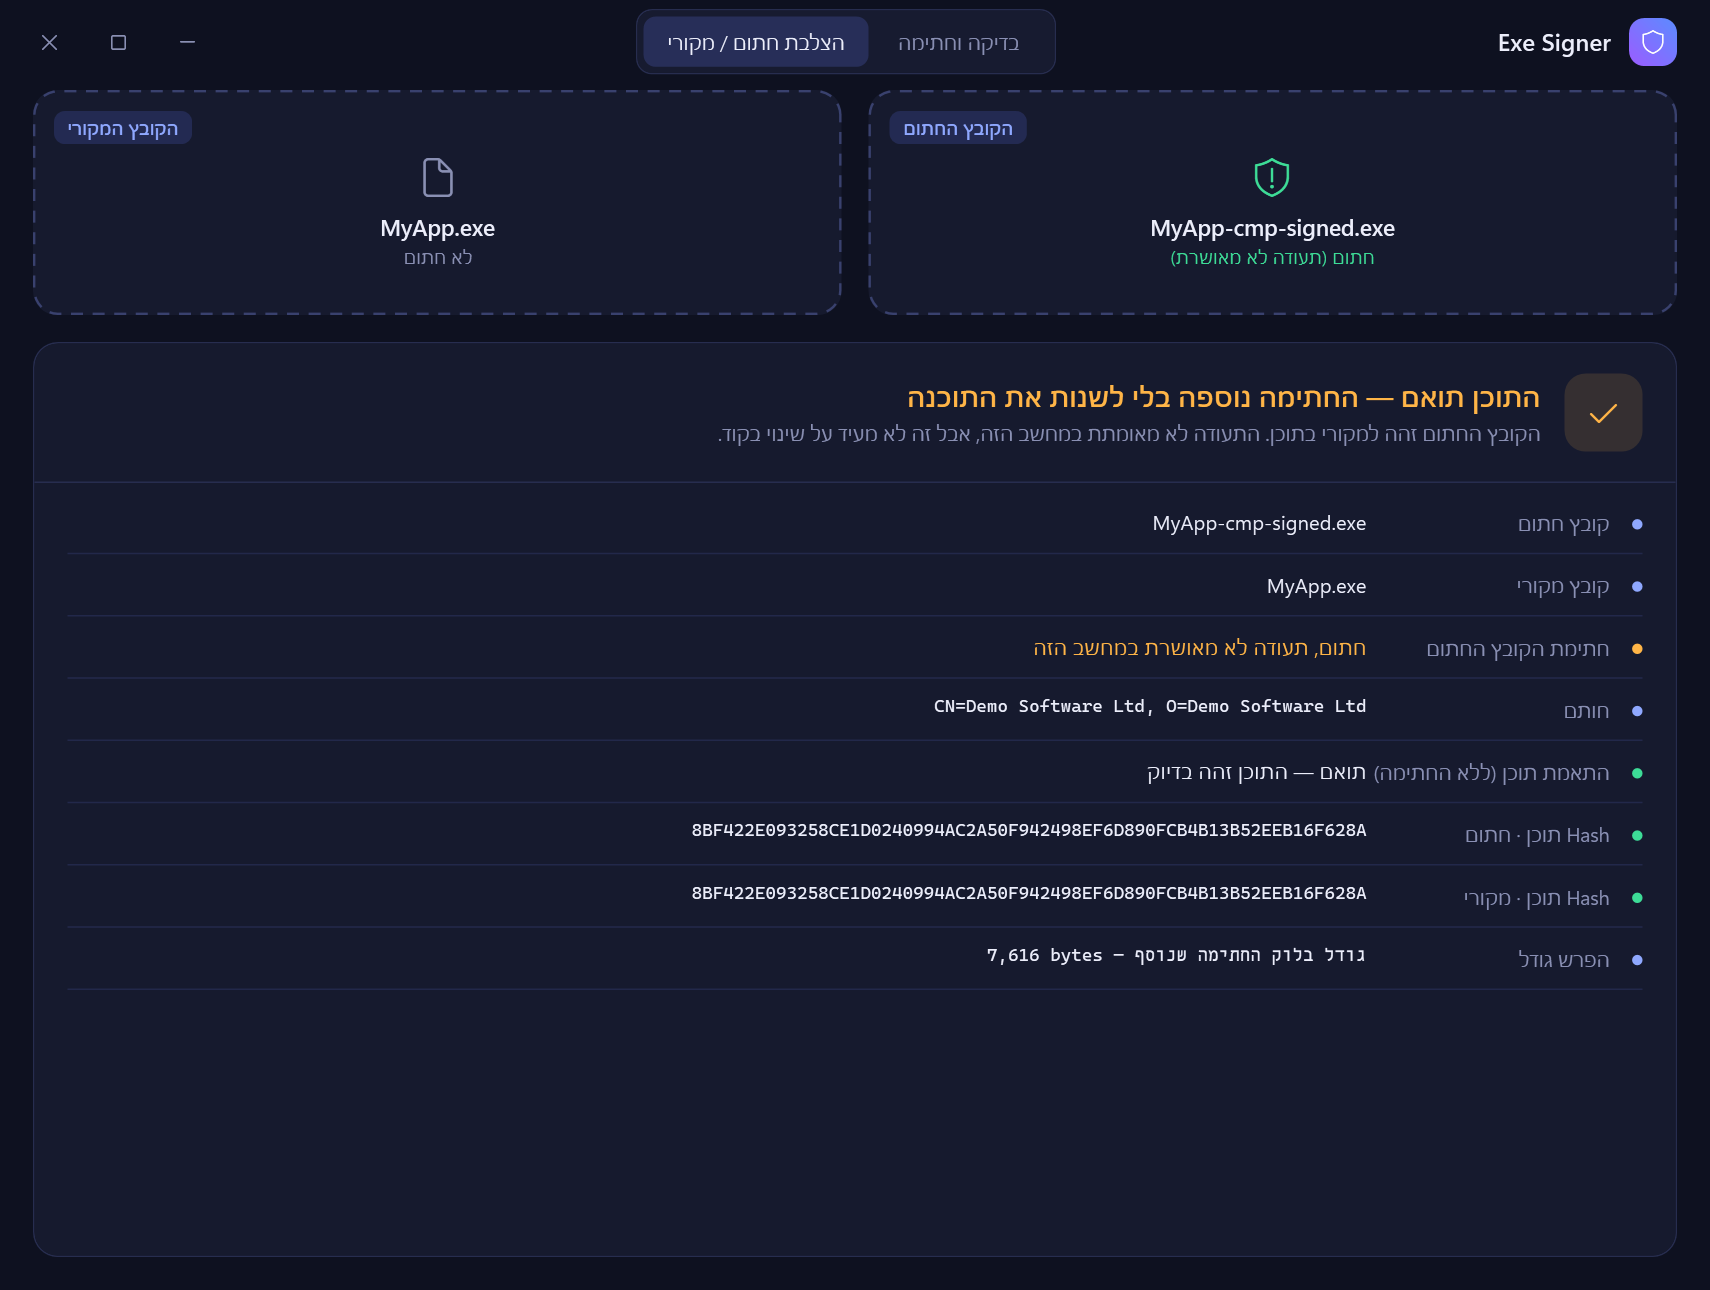
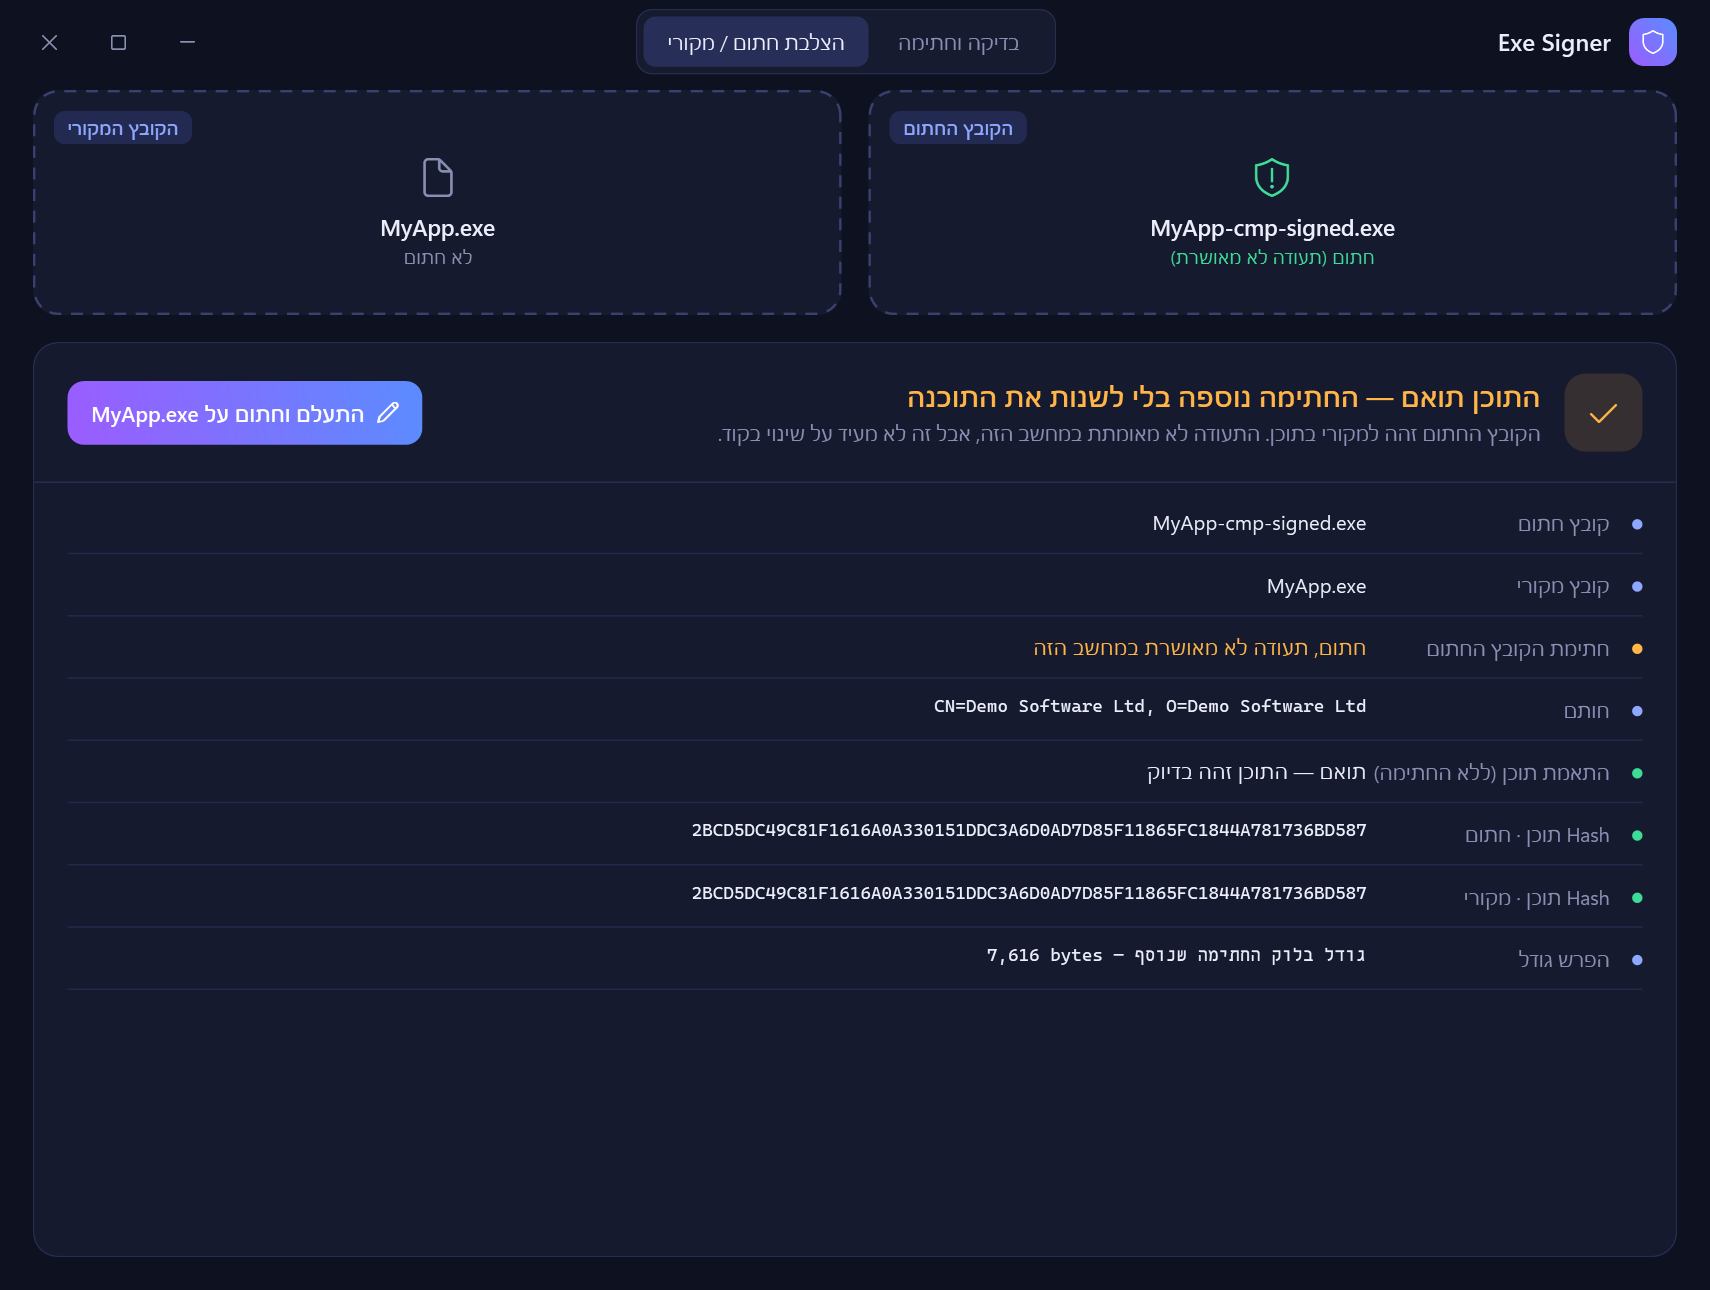
feat(exe-signer): "ignore and sign the original" button in compare mode
The compare result now has a primary button that ignores the
cross-check verdict, switches to the sign tab with the file from the
"original" slot loaded, and signs it with the current certificate
settings. Added a -CompareAutoSign automation switch used to test the
flow end to end.

Changed region(s): [[0.031, 0.2791, 0.248, 0.3721], [0.4029, 0.6822, 0.8058, 0.7132], [0.4029, 0.6202, 0.8058, 0.6512]]

diff --git a/README.md b/README.md
@@ -80,6 +80,8 @@ irm https://raw.githubusercontent.com/dor2500/exe-signer/main/install.ps1 | iex
 
 סדר הטעינה לא משנה: הכלי מזהה לבד איזה קובץ חתום ואיזה לא.
 
+בכל תוצאה יש גם כפתור **"התעלם וחתום על המקורי"** — הוא מתעלם מההשוואה, עובר ללשונית החתימה עם הקובץ שבצד "המקורי", וחותם עליו לפי הגדרות התעודה הנוכחיות.
+
 ## מגבלה חשובה
 תעודה עצמית **לא** מעלימה את אזהרת SmartScreen או "Unknown publisher" אצל משתמשים אחרים, אלא רק במחשבים שהתקינו את קובץ ה-`.cer`.
 כדי שהקובץ יהיה מהימן אצל כולם צריך תעודה מגורם מוכר (Azure Trusted Signing, או תעודת OV/EV מ-Sectigo, DigiCert או SSL.com). תעודה כזו טוענים דרך "תעודה קיימת".
